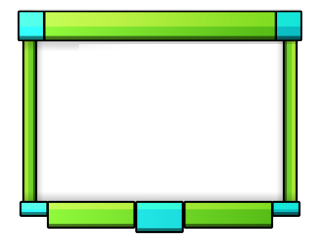
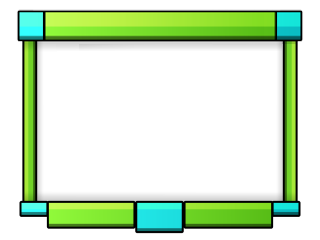
online menus slop (#97)
* fix compact table

* more prototype saved levels menu slop

Pull request: online menus slop
fix compact table sprite and add more placeholder saved menus crap

Changed region(s): [[0.25, 0.175, 0.875, 0.2042]]

diff --git a/source/menus/online_level_menu.c b/source/menus/online_level_menu.c
@@ -1,0 +1,109 @@
+#include <3ds.h>
+#include <citro2d.h>
+#include "menus/components/ui_window_button.h"
+#include "menus/core/ui_element.h"
+#include "menus/core/ui_screen.h"
+#include "menus/components/ui_list.h"
+#include "menus/components/ui_image.h"
+#include "menus/components/ui_label.h"
+#include "menus/components/ui_button.h"
+#include "menus/components/ui_rectangle.h"
+#include "main.h"
+#include "mp3_player.h"
+#include "graphics.h"
+#include "utils/folders.h"
+#include "menus/external_level_infobox.h"
+
+static bool exit_flag = false;
+static bool in_info_box = false;
+
+
+static UIImage *bg_gradient;
+static UIImage *bg_gradient_top;
+
+static void action_exit(UIElement *e) {
+    exit_flag = true;
+    set_fade_status(FADE_STATUS_OUT);
+}
+
+static void action_open_info(UIElement *e) {
+    // in_info_box = true;
+    // external_level_infobox_init();
+}
+
+
+static UIAction actions[] = {
+    {"exit", action_exit },
+    {"info", action_open_info },
+};
+
+void online_menu_loop() {
+    exit_flag = false;
+
+    ui_load_screen(&default_screen, actions, sizeof(actions) / sizeof(actions[0]), "romfs:/menus/online_level_menu.txt");
+    ui_load_screen(&default_screen_top, actions, sizeof(actions) / sizeof(actions[0]), "romfs:/menus/online_level_menu_top.txt");
+
+    bg_gradient = (UIImage *) ui_get_element_by_tag(&default_screen, "gradient");
+    bg_gradient_top = (UIImage *) ui_get_element_by_tag(&default_screen_top, "gradient_top");
+
+    ui_image_set_tint(bg_gradient, C2D_Color32(50, 110, 255, 255));
+    ui_image_set_tint(bg_gradient_top, C2D_Color32(50, 110, 255, 255));
+
+    set_fade_status(FADE_STATUS_IN);
+    while (aptMainLoop()) {
+        hidScanInput();
+
+        UIInput touch;
+        touchPosition touchPos;
+        hidTouchRead(&touchPos);
+        touch.touchPosition = touchPos;
+        touch.did_something = false;
+        touch.interacted = false;
+
+        if (!in_info_box) ui_screen_update(&default_screen, &touch);
+        
+        do {
+            update_touch_effect(DT);
+            
+            C3D_FrameBegin(C3D_FRAME_SYNCDRAW);
+            
+            // Bottom screen
+            C2D_TargetClear(bot, C2D_Color32(0, 0, 0, 255));
+            C2D_SceneBegin(bot);
+            draw_fade();
+
+            ui_screen_draw(&default_screen);
+
+            change_blending(true);
+            draw_touch_effect();
+            change_blending(false);
+
+            // Top screen
+            C2D_TargetClear(top, C2D_Color32(0, 0, 0, 255));
+            C2D_SceneBegin(top);
+            draw_fade();
+
+            ui_screen_draw(&default_screen_top);
+            C2D_ViewReset();
+            C3D_FrameEnd(0);
+        } while (handle_fading());
+
+        if (exit_flag) {
+            game_state = STATE_SAVED_LEVELS;
+            break;
+        }
+
+        if (in_info_box)
+        {
+            int returned = external_level_infobox_loop();
+            if (returned)
+            {
+                in_info_box = false;
+            }
+        }
+    }
+    C2D_TargetClear(bot, C2D_Color32(0, 0, 0, 255));
+    
+    ui_unload_screen(&default_screen);
+    ui_unload_screen(&default_screen_top);
+}

diff --git a/source/menus/saved_levels.c b/source/menus/saved_levels.c
@@ -11,10 +11,12 @@
 #include "main.h"
 #include "mp3_player.h"
 #include "graphics.h"
-#include "saved_levels.h"
 #include "utils/folders.h"
 
+
 static bool exit_flag = false;
+
+static int new_state;
 
 static UIImage *bg_gradient;
 static UIImage *bg_gradient_top;
@@ -45,8 +47,14 @@ static void action_exit(UIElement *e) {
     set_fade_status(FADE_STATUS_OUT);
 }
 
+void action_open_level_menu(UIElement* e) {
+    new_state = STATE_ONLINE_LEVEL;
+    set_fade_status(FADE_STATUS_OUT);
+}
+
 static UIAction actions[] = {
     {"exit", action_exit },
+    {"open_level_menu", action_open_level_menu },
 };
 
 void saved_levels_loop() {
@@ -58,6 +66,7 @@ void saved_levels_loop() {
     C2D_Fade(0);
     C3D_FrameEnd(0);
 
+    new_state = 0;
     exit_flag = false;
 
     ui_load_screen(&default_screen, actions, sizeof(actions) / sizeof(actions[0]), "romfs:/menus/saved_levels.txt");
@@ -86,9 +95,9 @@ void saved_levels_loop() {
             strncpy(length, saved_levels[i].length, sizeof(length) - 1);
 
             
-            truncate_filename(name, 14);
+            truncate_filename(name, 13);
             truncate_filename(creator, 20);
-            truncate_filename(song, 22);
+            truncate_filename(song, 25);
 
             float list_width = list->base.w * 0.5f;
 
@@ -238,7 +247,7 @@ void saved_levels_loop() {
 
                     ui_element_set_position((UIElement *) button, list_width - 32, 0);
                     ui_element_set_size((UIElement *) button, 48, 28);
-
+                    ui_element_set_action((UIElement *) button, action_open_level_menu);
                     ui_element_add_child(card, (UIElement *) button);
                 }
 
@@ -291,6 +300,11 @@ void saved_levels_loop() {
             C2D_ViewReset();
             C3D_FrameEnd(0);
         } while (handle_fading());
+
+        if (new_state) {
+            game_state = new_state;
+            break;
+        }
 
         if (exit_flag) {
             game_state = STATE_CREATOR_MENU;

diff --git a/source/main.c b/source/main.c
@@ -44,6 +44,7 @@
 #include "menus/saved_levels.h"
 #include "menus/loading_screen.h"
 #include "menus/level_complete.h"
+#include "menus/online_level_menu.h"
 
 #include "save/saving.h"
 
@@ -1262,6 +1263,9 @@ int main(int argc, char* argv[]) {
                 break;
             case STATE_SAVED_LEVELS:
                 saved_levels_loop();
+                break;
+            case STATE_ONLINE_LEVEL:
+                online_menu_loop();
                 break;
             case STATE_EXTERNAL_LEVELS:
                 external_levels_loop();

diff --git a/source/menus/online_level_menu.h b/source/menus/online_level_menu.h
@@ -1,0 +1,3 @@
+#pragma once
+
+void online_menu_loop();

diff --git a/source/main.h b/source/main.h
@@ -73,6 +73,7 @@ enum GameState {
     STATE_GAME,
     STATE_EXTERNAL_LEVELS,
     STATE_SAVED_LEVELS,
+    STATE_ONLINE_LEVEL,
     STATE_CREATOR_MENU,
     STATE_SEARCH_MENU,
     STATE_SOGGY,